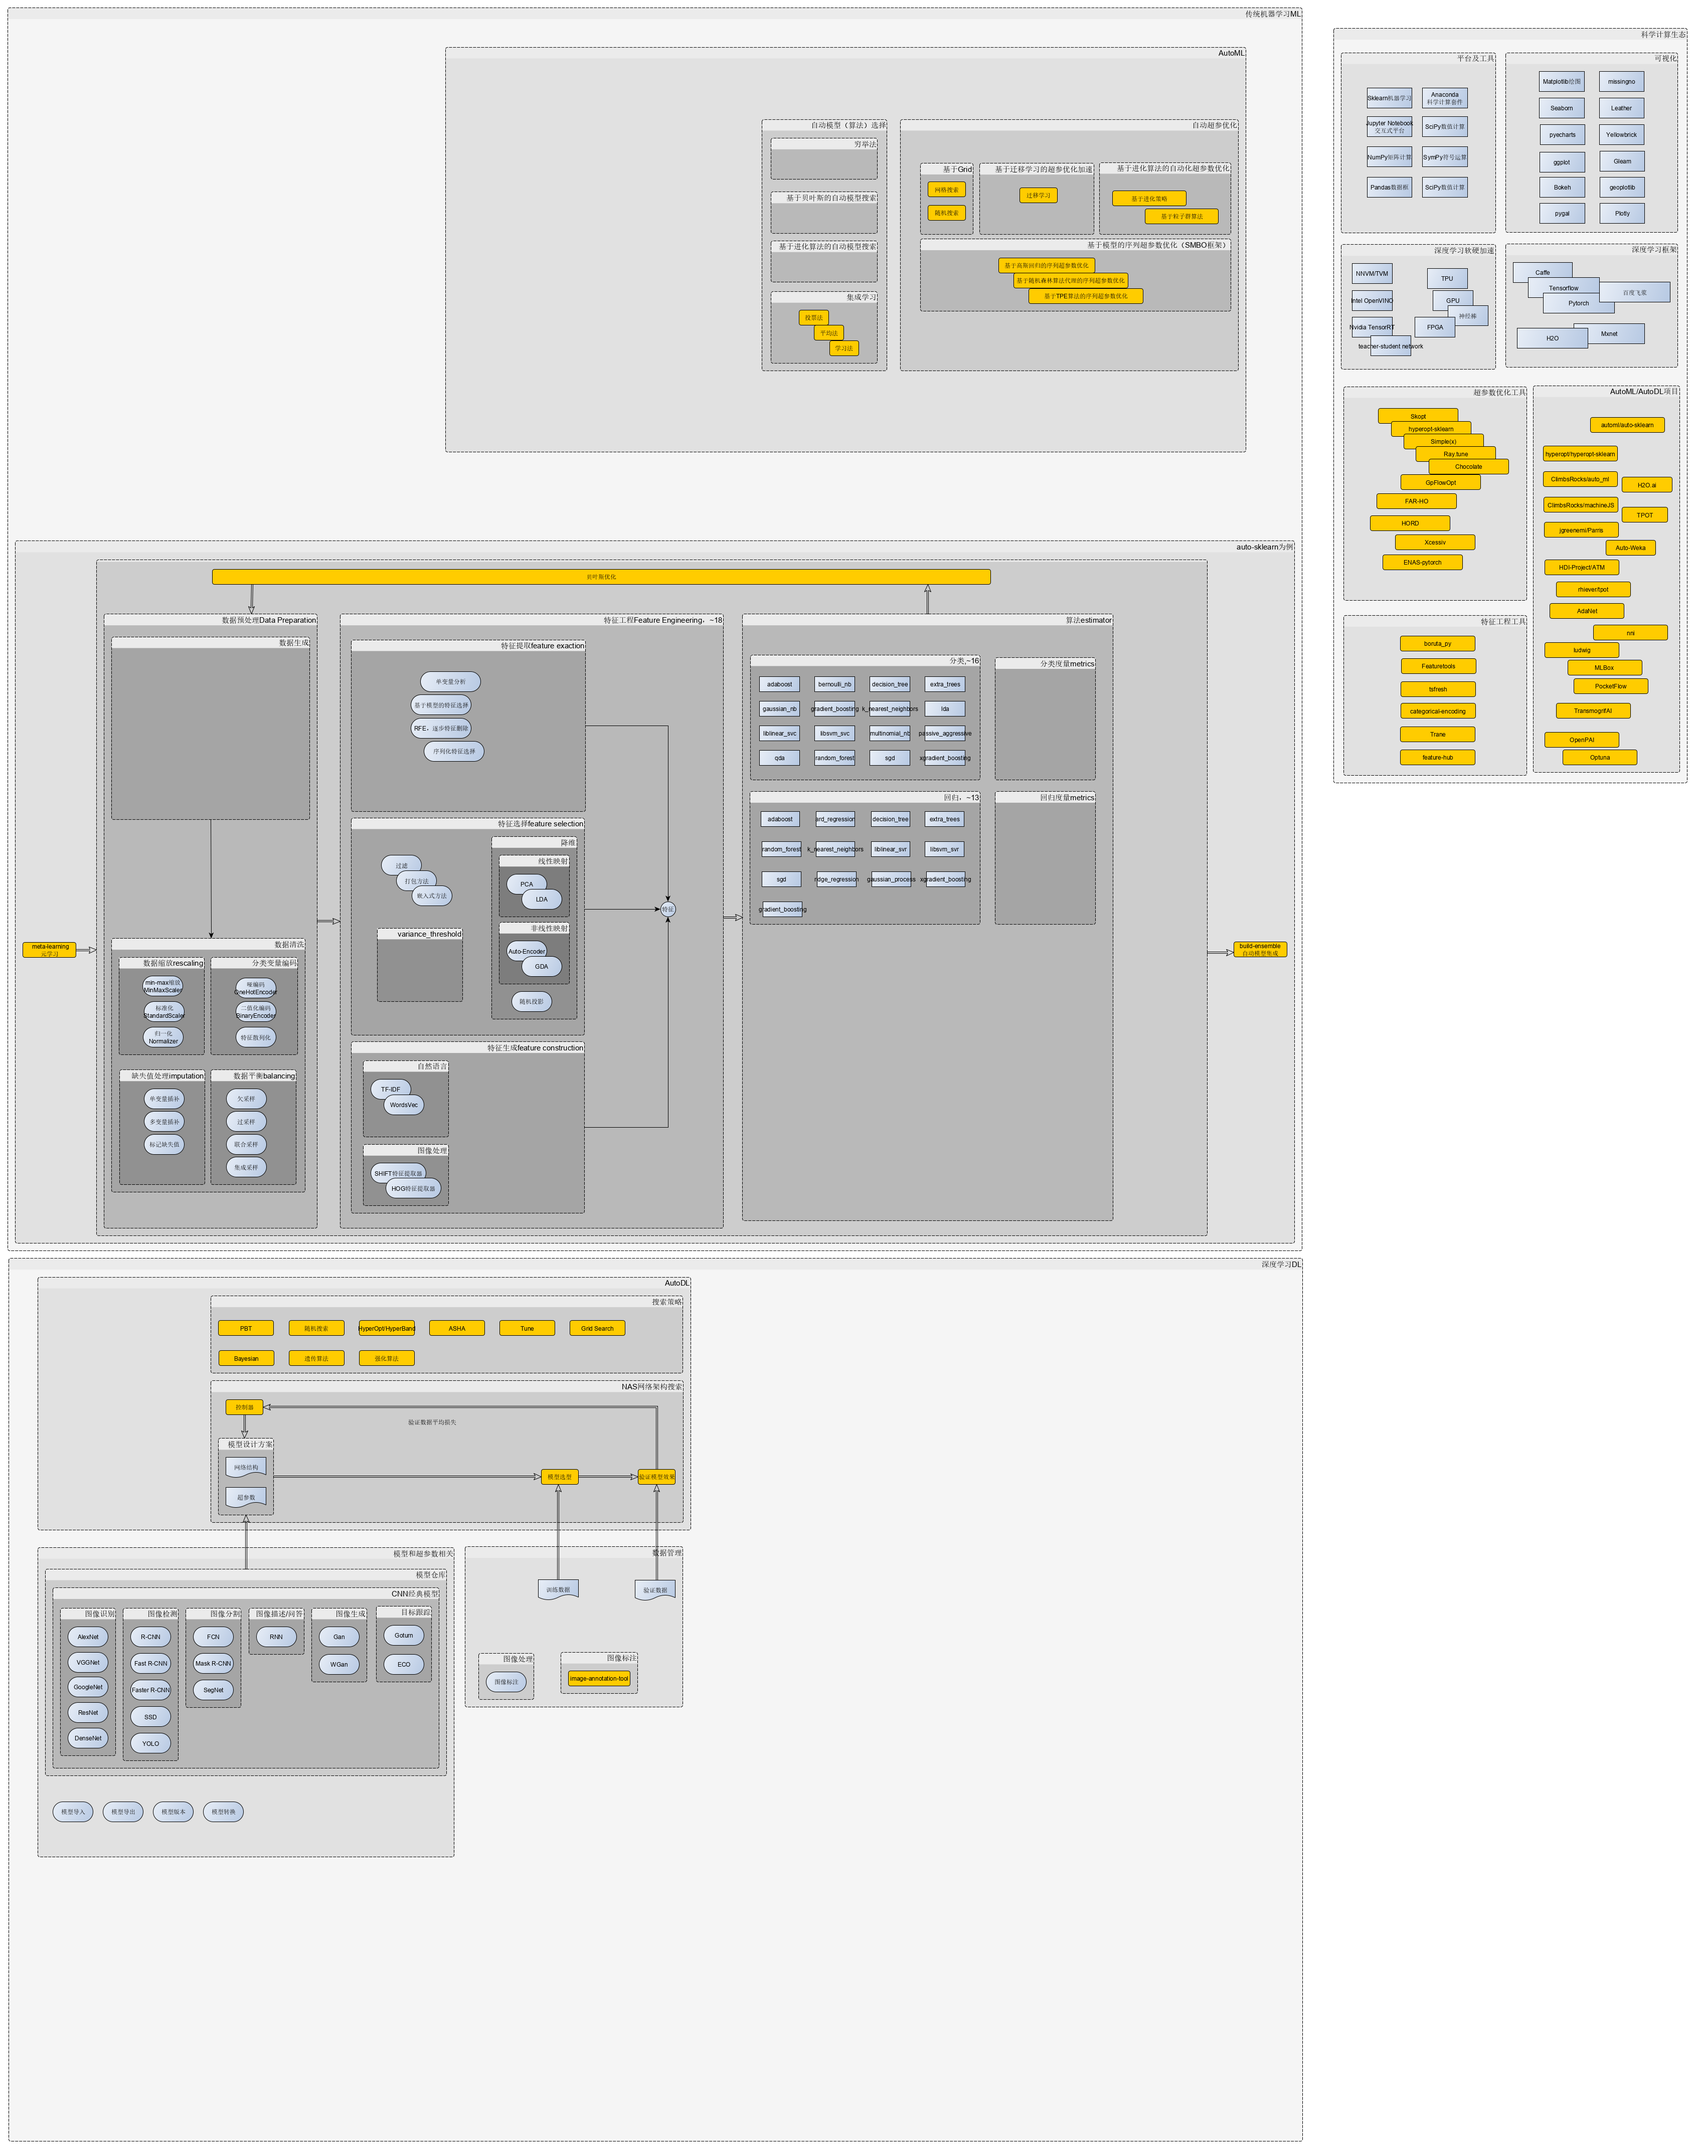
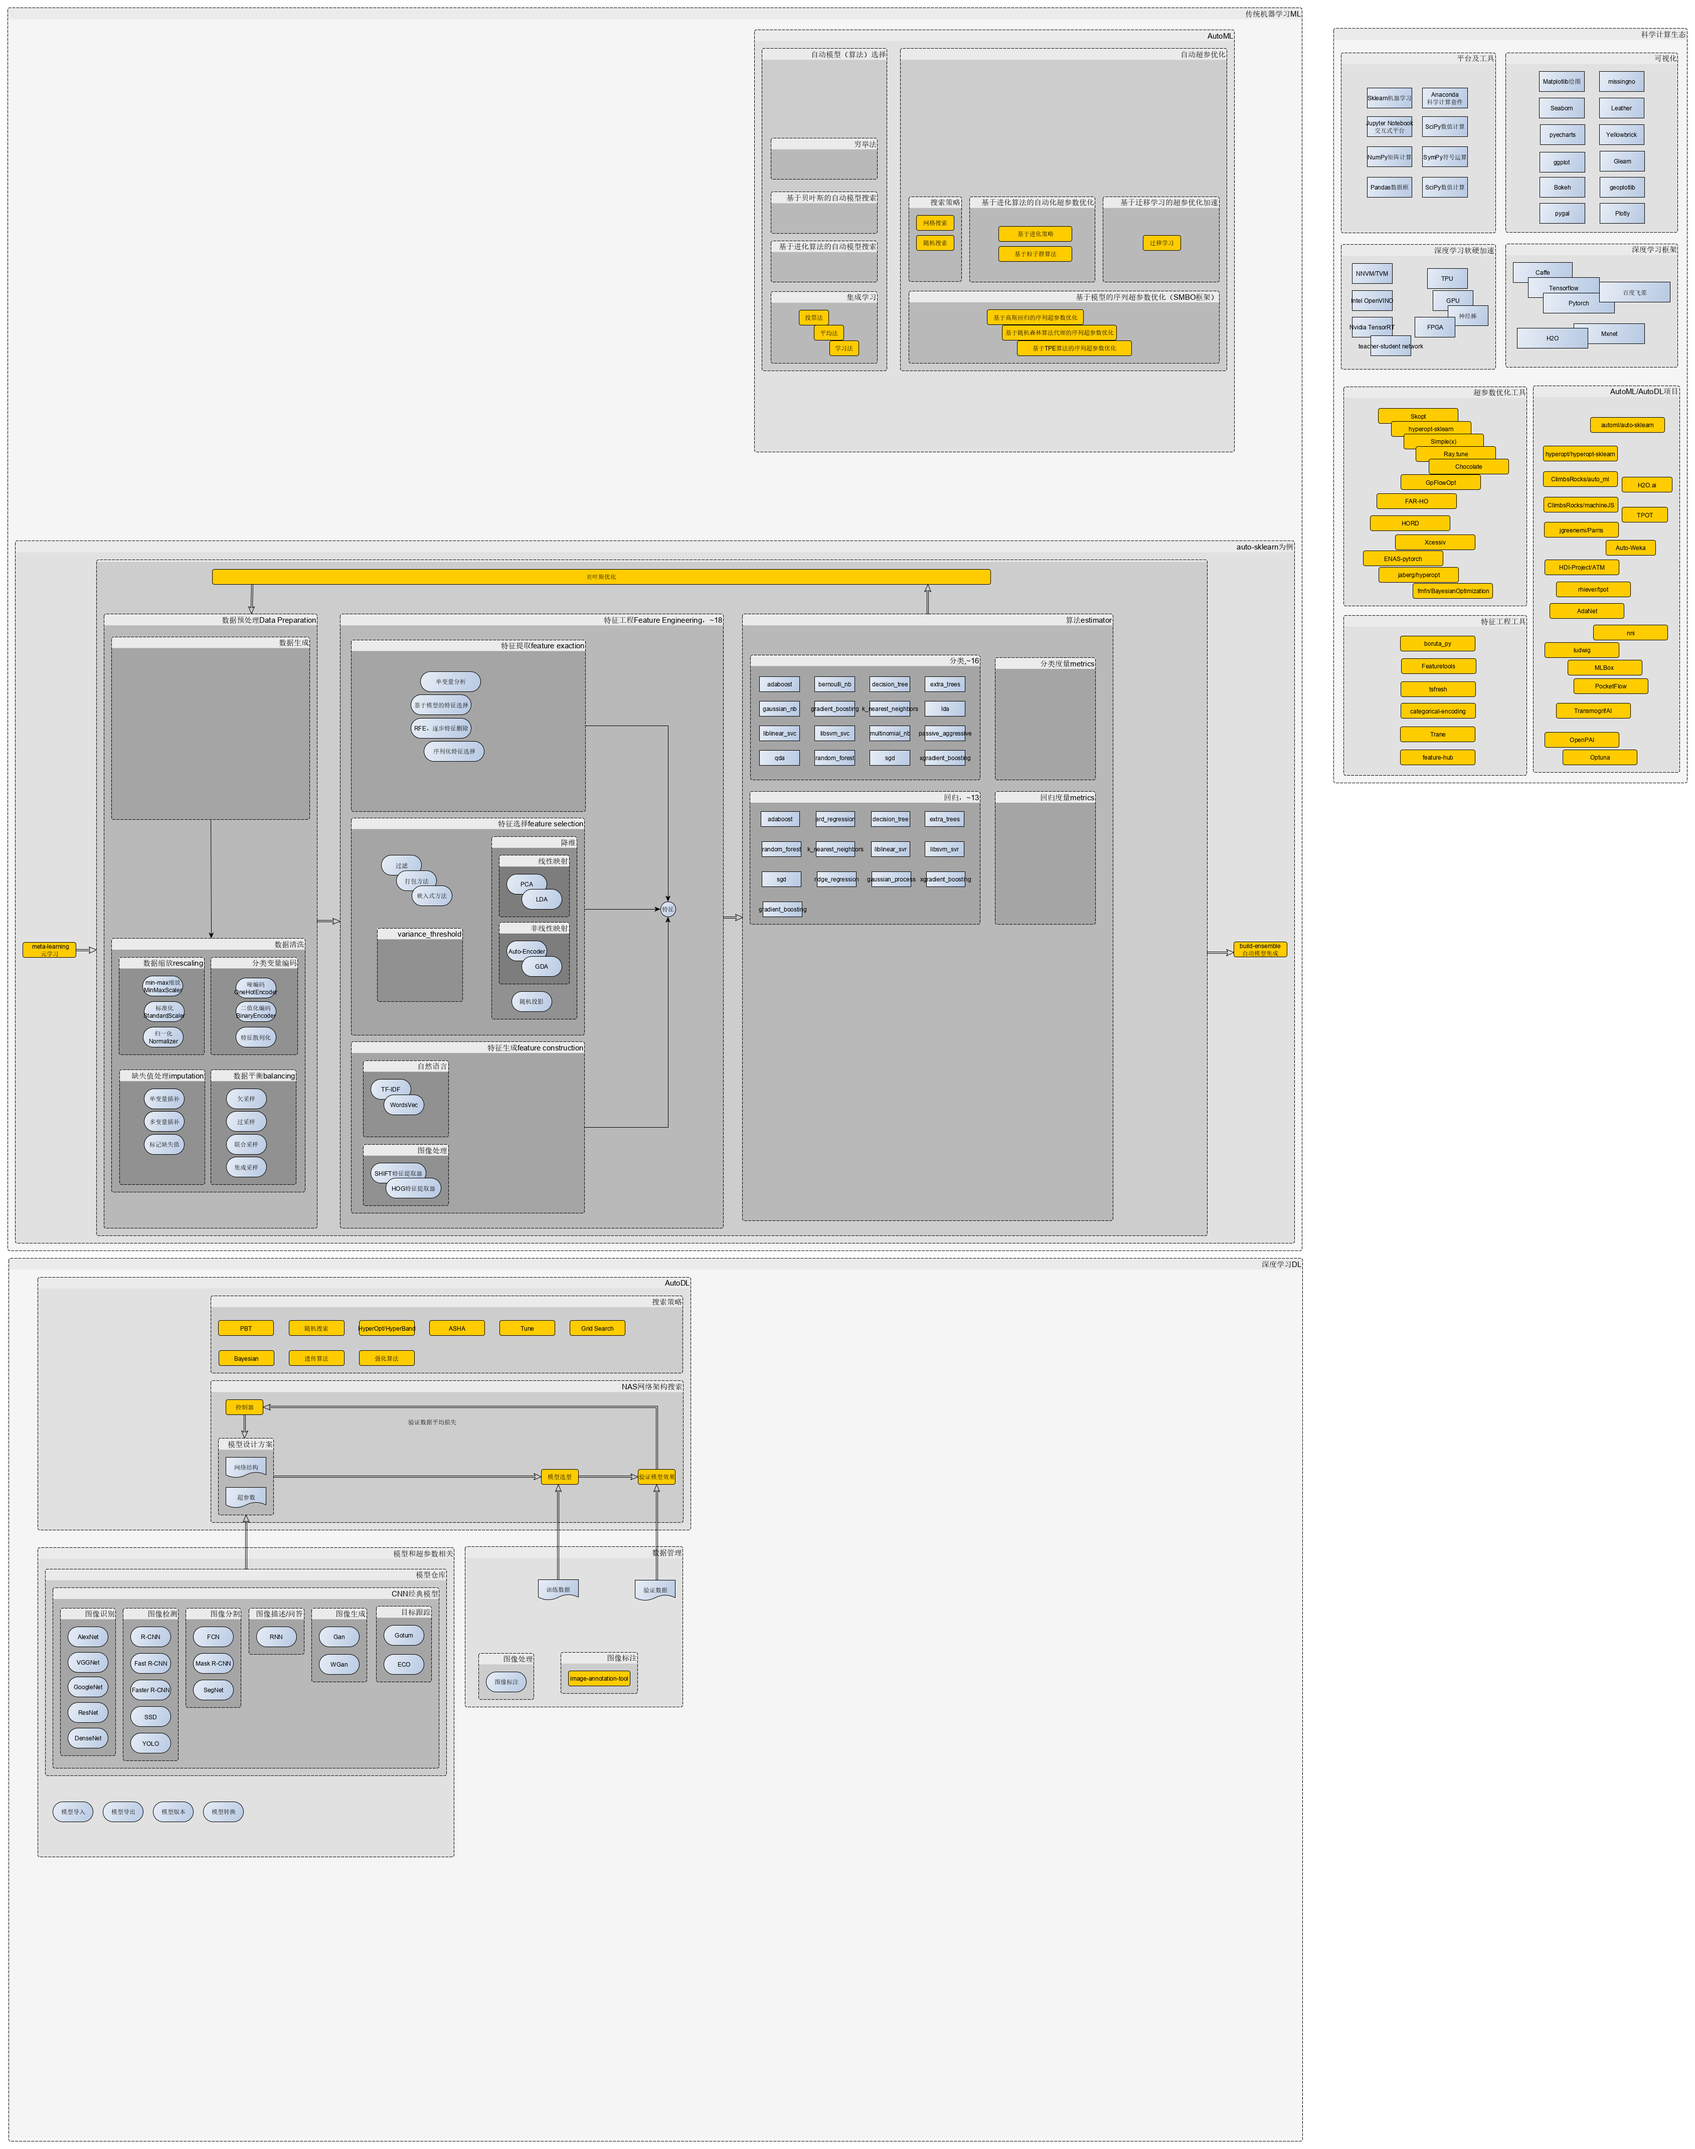
AutoML/AutoDL

Changed region(s): [[0.4349, 0.031, 0.7456, 0.1862], [0.8077, 0.2483, 0.8698, 0.2793]]

diff --git a/README.md b/README.md
@@ -135,35 +135,49 @@
 
 ## AutoML/AutoDL
 
-> AutoML as a CASH Problem
->>  **C**ombined **A**lgorithm **S**election and **H**yperparameter optimization
+1. > **AutoML as a CASH Problem**
+    >>  **C**ombined **A**lgorithm **S**election and **H**yperparameter optimization
 
-- 自动特征工程
-- 自动模型选择
-- 自动超参数优化
-- 开源项目 
-  - <details><summary>AutoML/AutoDL流程图</summary>
+    <details><summary>AutoML/AutoDL思维导图</summary>
 
-    ![](自动机器学习/自动机器学习.png)
-
+      ![](自动机器学习/自动机器学习.png)
+  
     </details>
+
+2. **自动化流程**
+   1. 自动数据清洗
+   2. 自动特征工程
+   3. 自动数据建模
+      1. 自动算法/模型选择
+      2. 自动超参数优化
+         - 网格搜索(Gird Search)
+         - 随机搜索(Random Search)
+         - 贝叶斯优化(Bayesian Optimization)
+   4. 自动模型评估
+      1. 模型度量
+      2. 模型解释
+
+3. **开源库评估**
 
   库、框架|核心组件及函数|使用与评估
   ---|---|---
-  [automl_gs](https://github.com/minimaxir/automl-gs)|[**automl_grid_search**网格搜索策略](https://github.com/minimaxir/automl-gs/automl_gs/blob/master/automl_gs.py):<br>step1:**get_problem_config**，从[评估指标模板](https://github.com/minimaxir/automl-gs/blob/master/automl_gs/metrics.yml)中获取学习类型及指标；<br>step2:**build_hp_grid函数**，使用[超参数模板](https://github.com/minimaxir/automl-gs/blob/master/automl_gs/hyperparameters.yml)构建所有**超参数**；<br>step3:**render_model函数**，在script目录下的[model模型模板](https://github.com/minimaxir/automl-gs/blob/master/automl_gs/templates/scripts/model)和[pipeline函数模板](https://github.com/minimaxir/automl-gs/blob/master/automl_gs/templates/scripts/pipeline)中填入超参数，生成可执行的脚本；<br>step4:**train_generated_model函数**，训练模型；<br>step5:显示结果|
-  [auto-sklearn](https://github.com/automl/auto-sklearn)、[文档](https://automl.github.io/auto-sklearn/master/)||
-  [h2o-3](https://github.com/h2oai/h2o-3)、[文档](http://docs.h2o.ai/h2o/latest-stable/h2o-docs/index.html)|<details><summary>h2o on spark</summary>![](自动机器学习/h2o/H2O.png)</details><br>|
+  [automl_gs's github](https://github.com/minimaxir/automl-gs)、[tutorial](https://github.com/minimaxir/automl-gs/blob/master/docs/automl_gs_tutorial.ipynb)、[exampes](https://github.com/minimaxir/automl-gs-examples)|[**automl_grid_search**网格搜索策略](https://github.com/minimaxir/automl-gs/automl_gs/blob/master/automl_gs.py):<br>step1:**get_problem_config**，从[评估指标模板](https://github.com/minimaxir/automl-gs/blob/master/automl_gs/metrics.yml)中获取学习类型及指标；<br>step2:**build_hp_grid函数**，使用[超参数模板](https://github.com/minimaxir/automl-gs/blob/master/automl_gs/hyperparameters.yml)构建所有**超参数**；<br>step3:**render_model函数**，在script目录下的[model模型模板](https://github.com/minimaxir/automl-gs/blob/master/automl_gs/templates/scripts/model)和[pipeline函数模板](https://github.com/minimaxir/automl-gs/blob/master/automl_gs/templates/scripts/pipeline)中填入超参数，生成可执行的脚本；<br>step4:**train_generated_model函数**，训练模型；<br>step5:显示结果|
+  [auto-sklearn's github](https://github.com/automl/auto-sklearn)、[文档](https://automl.github.io/auto-sklearn/master/)||
+  [h2o-3's github](https://github.com/h2oai/h2o-3)、[文档](http://docs.h2o.ai/h2o/latest-stable/h2o-docs/index.html)|<details><summary>h2o on spark</summary>![](自动机器学习/h2o/H2O.png)</details><br>|
 
 ## 参考资料
   
 - 文档
-1. [scikit-learn (sklearn) 官方文档中文版](https://sklearn.apachecn.org/)
-2. [H2O.ai文档](http://docs.h2o.ai/h2o/latest-stable/h2o-docs/index.html)
+  - 
+  - [scikit-learn (sklearn) 官方文档中文版](https://sklearn.apachecn.org/)
+  - [H2O.ai文档](http://docs.h2o.ai/h2o/latest-stable/h2o-docs/index.html)
+
 - 论文
   - 元学习
     - [floodsung/Meta-Learning-Papers](https://github.com/floodsung/Meta-Learning-Papers)
 
 - 文章
-1. [An Overview of AutoML Libraries Used in Industry](https://www.shangyexinzhi.com/article/313707.html)
-2. [自动机器学习：最近进展研究综述](https://www.leiphone.com/news/201908/cM4vkvgmXinZ1Cky.htmlhttps://baijiahao.baidu.com/s?id=1641540911794101828&wfr=spider&for=pc)
-3. [机器学习平台建设](https://blog.csdn.net/SoftwareTeacher/article/details/82692184)
+  - [An Overview of AutoML Libraries Used in Industry](https://www.shangyexinzhi.com/article/313707.html)
+  - [自动机器学习：最近进展研究综述](https://www.leiphone.com/news/201908/cM4vkvgmXinZ1Cky.htmlhttps://baijiahao.baidu.com/s?id=1641540911794101828&wfr=spider&for=pc)
+  - [机器学习平台建设](https://blog.csdn.net/SoftwareTeacher/article/details/82692184)
+  - [使用 Hyperopt 进行参数调优（译）](https://www.jianshu.com/p/35eed1567463)
